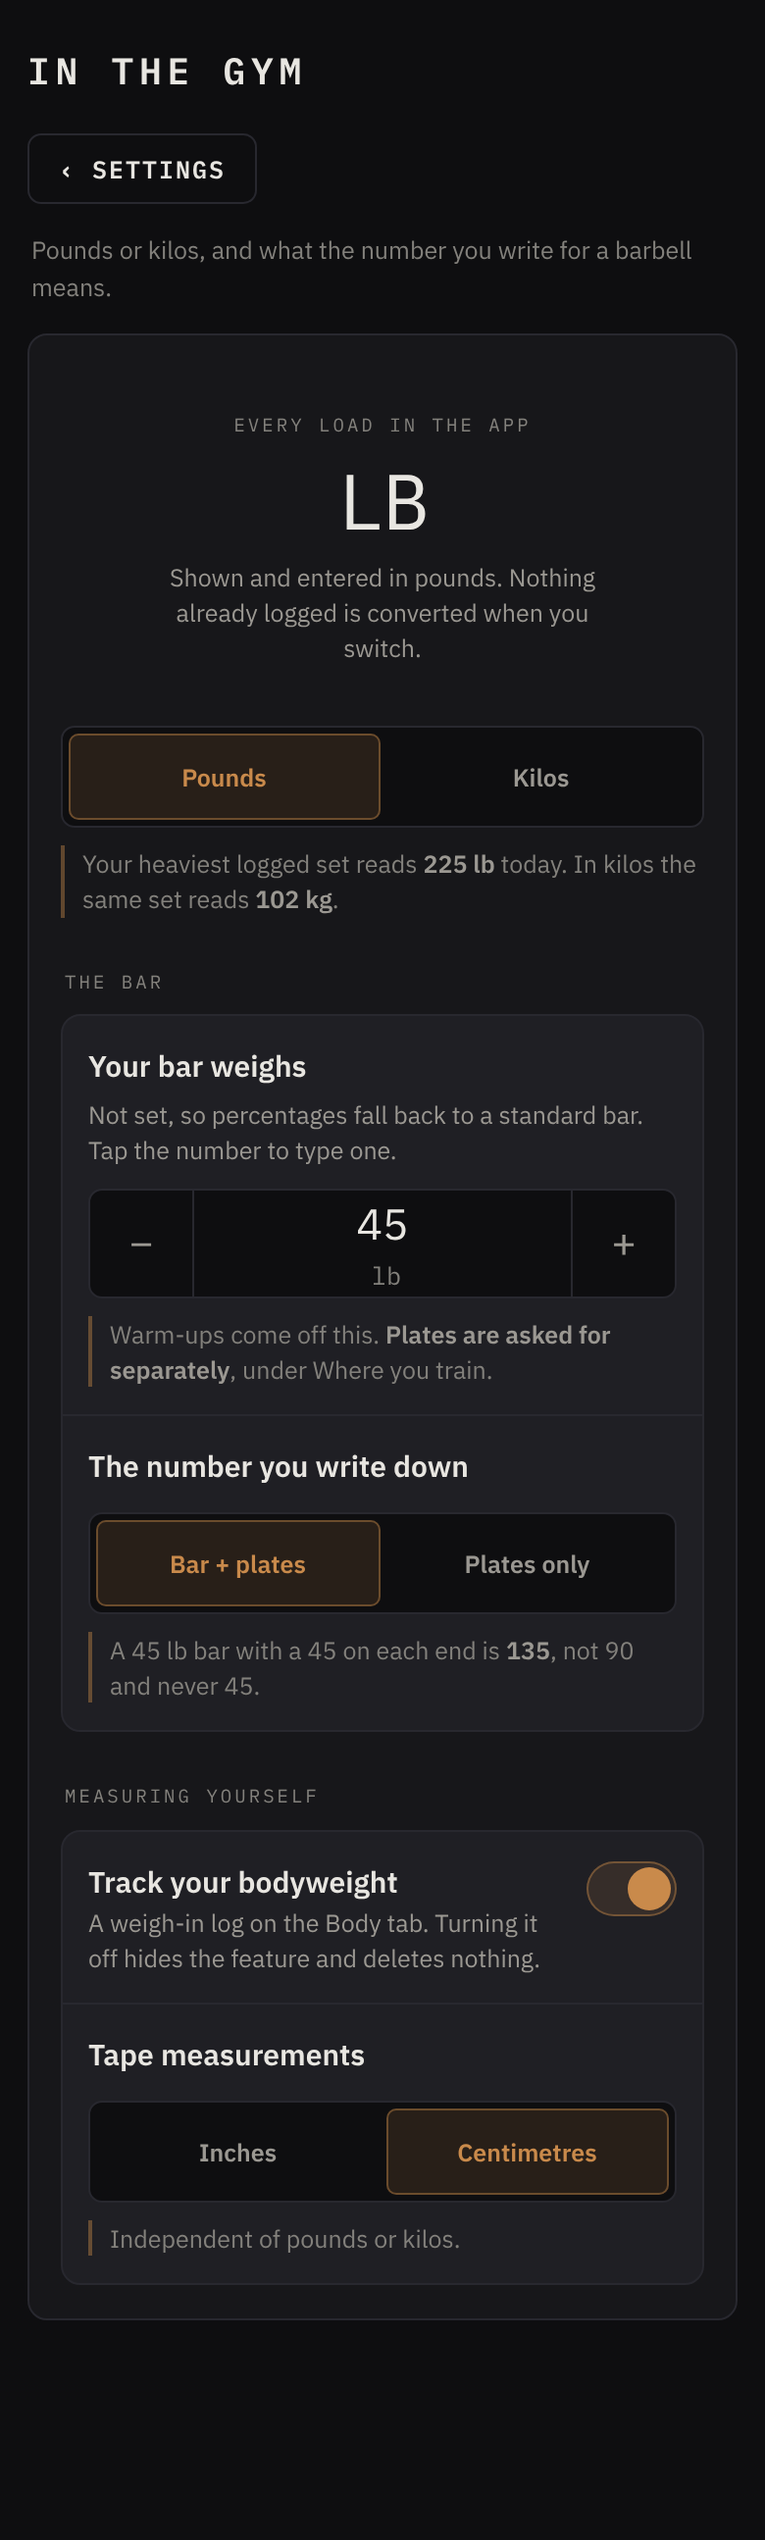
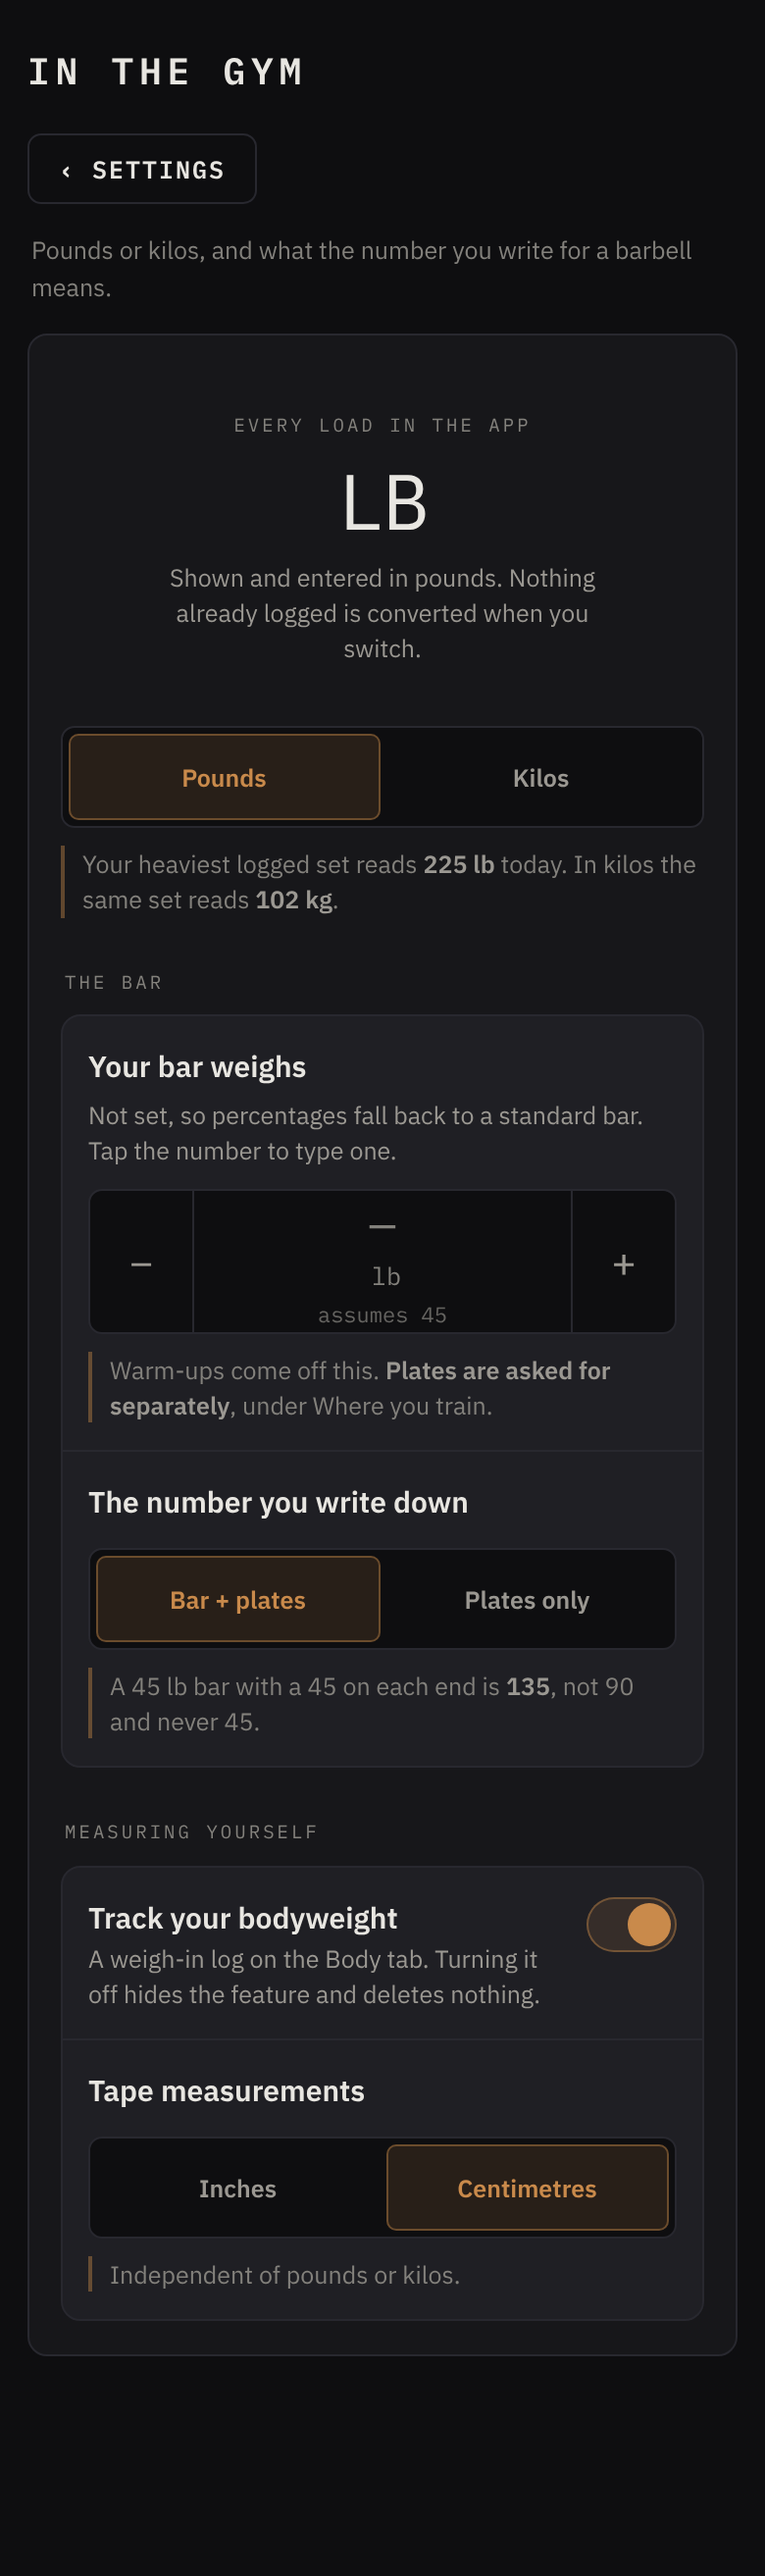
Batch 1 fixes and batch 2: targets, where you train, your plan
Design assets only; no app file touched.

The three agreed fixes to the picked variants. sess B's hero now has the
control it describes sitting under it, so all three picks read hero, control,
says line, groups, More. gym B's bar stepper no longer shows a crisp 45 for a
value that was never set: it reads an em dash with "assumes 45" under it,
dimmed, because a number that looks like an answer you gave is a lie about
your own data. screen A gained the says line it was missing.

Batch 2 is where the dial and the dual-thumb range finally do real work, on
figures that exist: the targets dial runs the real TG_MIN..TG_MAX of 50-150
with detents, and each muscle's range carries its real MEV, MAV and MRV, with
the six the fixture's lmFloor overrides marked as yours.

Three faults the renderer and the screenshots caught, all fixed:
- the plate chips were sized by weight, which is the point of the metaphor and
  also made a 2.5 a 29px tap target. The face varies now; the button behind it
  does not, and stays 52px.
- the dial's readout collided with its own knob, and the per-cent sign took a
  line of its own because the caption rule was a descendant selector and the
  unit lives inside the number. Direct child now, and the dial is larger.
- the plate row wrapped a lone 2.5 onto a second line.

Claude-Session: https://claude.ai/code/session_01GAZKtWTWgeWboZwoRMpH1R

diff --git a/design/variants/variants.js b/design/variants/variants.js
@@ -25,9 +25,11 @@ const tog = (label,sub,on)=> `<button type="button" class="sd-tog" aria-pressed=
 const chips = (opts,cur,plate)=> `<div class="sd-chips">${opts.map(o=>
   `<button type="button" class="sd-chip${plate?" sd-plate":""}${o.word?" is-word":""}"
      aria-pressed="${o.v===cur}">${E(o.t)}</button>`).join("")}</div>`;
-const step = (v,unit)=> `<div class="sd-step">
+const step = (v,unit,unset)=> `<div class="sd-step">
   <button type="button" aria-label="Less">−</button>
-  <div class="sd-step-v" role="spinbutton" tabindex="0" aria-valuenow="${E(v)}">${E(v)}${unit?`<i>${E(unit)}</i>`:""}</div>
+  <div class="sd-step-v${unset?" is-unset":""}" role="spinbutton" tabindex="0"
+    ${unset?'aria-valuetext="not set"':`aria-valuenow="${E(v)}"`}>${
+    unset?`—<i>${E(unit)}</i><u>${E(v)}</u>`:`${E(v)}${unit?`<i>${E(unit)}</i>`:""}`}</div>
   <button type="button" aria-label="More">+</button></div>`;
 const more = (label,inner)=> `<details class="sd-more"><summary>${E(label)}</summary>
   <div class="sd-more-b">${inner}</div></details>`;
@@ -254,7 +256,7 @@ const gym_B = ()=>
 + sec("The bar")
 + group(
     item("Your bar weighs","Not set, so percentages fall back to a standard bar. Tap the number to type one.",
-      step(45,"lb"),"Warm-ups come off this. <b>Plates are asked for separately</b>, under Where you train.")
+      step(45,"lb",true),"Warm-ups come off this. <b>Plates are asked for separately</b>, under Where you train.")
   + item("The number you write down","",
       seg([{v:"total",t:"Bar + plates"},{v:"plates",t:"Plates only"}],"total"),
       "A 45 lb bar with a 45 on each end is <b>135</b>, not 90 and never 45."))
@@ -280,4 +282,197 @@ window.SD = {
   screen_A, screen_B, screen_C,
   gym_A, gym_B, gym_C
 };
+/* =====================  BATCH 2  ===================== */
+/* Real figures: GROUPS defaults, with the six the fixture's lmFloor overrides marked. */
+const M = {
+  quads:["Quads",5.5,16,20,true],  hams:["Hamstrings",4.5,14,20,true],
+  glutes:["Glutes",4,12,16,false], calves:["Calves",2,14,20,true],
+  adductors:["Adductors",0,6,12,false],
+  upper_back:["Mid Back",5.3,20,25,true], lats:["Lats",10,18,22,false],
+  traps:["Traps",4,16,24,false],   lower_back:["Lower Back",4,8,12,false],
+  delts_side:["Side Delts",5,20,26,true], delts_rear:["Rear Delts",8.5,18,24,true],
+  delts_front:["Front Delts",0,12,16,false],
+  chest:["Chest",10,20,22,false],
+  biceps:["Biceps",8,18,24,false], triceps:["Triceps",6,14,18,false],
+  forearms:["Forearms",2,8,12,false],
+  abs:["Abs",6,18,24,false], obliques:["Obliques",4,10,16,false]
+};
+const AREAS = {Chest:["chest"], Back:["upper_back","lats","traps","lower_back"],
+  Shoulders:["delts_side","delts_rear","delts_front"],
+  Arms:["biceps","triceps","forearms"], Core:["abs","obliques"],
+  Legs:["quads","hams","glutes","calves","adductors"]};
+const mName=k=>M[k][0], mMine=k=>M[k][4];
+const band = k=>{const [n,a,b,c]=M[k];return `${a}/${b}/${c}`;};
+
+/* A muscle as a three-stop range: MEV, MAV marked on the rail, MRV. */
+function mRange(k){
+  const [n,mev,mav,mrv,mine]=M[k], MAXS=28;
+  const p=v=>(v/MAXS)*100;
+  return `<div class="sd-item">
+    <div style="display:flex;align-items:baseline;gap:8px">
+      <div class="sd-label" style="flex:1 1 auto;margin:0">${E(n)}${mine?` <i class="sd-mine">yours</i>`:""}</div>
+      <div class="sd-r-v">${E(mev)}–${E(mrv)}</div></div>
+    <div class="sd-range" style="margin-top:9px"><div class="sd-range-t">
+      <div class="sd-range-rail"></div>
+      <div class="sd-range-on" style="left:${p(mev)}%;right:${(100-p(mrv)).toFixed(1)}%"></div>
+      <div class="sd-range-mid" style="left:${p(mav)}%"></div>
+      <div class="sd-range-th" role="slider" tabindex="0" aria-label="${E(n)} minimum"
+        aria-valuenow="${mev}" style="left:${p(mev)}%"></div>
+      <div class="sd-range-th" role="slider" tabindex="0" aria-label="${E(n)} maximum"
+        aria-valuenow="${mrv}" style="left:${p(mrv)}%"></div></div>
+      <div class="sd-range-sc"><span>0</span><span>enough: ${E(mav)}</span><span>${MAXS}</span></div></div>
+  </div>`;
+}
+/* Plates you own, drawn as plates: the heavy ones read heavier. */
+const PLATES=[45,35,25,10,5,2.5];
+function plateRow(owned){
+  const big=Math.max(...PLATES);
+  /* The face varies with the plate; the BUTTON does not. A 2.5 drawn small is the point
+     of the metaphor, but a 29px tap target is a miss, so the face sits inside a full-size
+     hit area rather than being one. */
+  return `<div class="sd-chips sd-plates">${PLATES.map(v=>{
+    const h=26+Math.round((v/big)*28);
+    return `<button type="button" class="sd-plate-b" aria-pressed="${owned.indexOf(v)>-1}"
+      aria-label="${v} pound plates"><span class="sd-plate-f" style="height:${h}px">${v}</span></button>`;
+  }).join("")}</div>`;
+}
+
+/* ---------- Volume targets ---------- */
+const tgMuscleList = ()=> Object.keys(AREAS).map(a=>
+  `<div class="sd-sec" style="margin:18px 2px 7px">${E(a)}</div>` + group(
+    AREAS[a].map(k=> `<button type="button" class="sd-r-h">
+      <span class="sd-r-n">${E(mName(k))}${mMine(k)?` <i class="sd-mine">yours</i>`:""}</span>
+      <span class="sd-r-v">${E(band(k))}</span><span class="sd-r-c">›</span></button>`).join(""))).join("");
+
+const targets_A = ()=>
+  `<div class="sd-hero" style="padding-bottom:12px"><div class="sd-hero-k">ALL TARGETS, AGAINST THE PUBLISHED FIGURES</div>
+    ${dial(100,"%","of published",[50,75,100,125,150],50,150)}</div>`
++ says("At <b>100%</b> you are on the published figures. Six muscles you have set yourself are left alone by this — the scale moves the other twelve.")
++ sec("Where the figures come from")
++ group(item("","",seg([{v:"pub",t:"As published"},{v:"learn",t:"Learn from my training"}],"pub"),
+    "Published numbers until your log says otherwise. <b>Quads: 16 sets a week</b>, about 5 per leg day."))
++ more("Each muscle on its own — 6 of 18 set by you", tgMuscleList());
+
+const targets_B = ()=>
+  heroW("VOLUME TARGETS","18 muscles, 6 set by you",
+    "Each one is a range: the least that does anything, and the most you can recover from.")
++ sec("Legs")
++ group(AREAS.Legs.slice(0,4).map(mRange).join(""))
++ sec("Shoulders")
++ group(AREAS.Shoulders.map(mRange).join(""))
++ says("Drag either end, or tap a number to type it. <b>Enough</b> is the middle mark — where most people grow without digging a hole.")
++ more("Chest, Back, Arms and Core", sec("Back") + group(AREAS.Back.map(mRange).join(""))
+  + sec("Arms") + group(AREAS.Arms.map(mRange).join("")));
+
+const targets_C = ()=>
+  heroW("VOLUME TARGETS","100% of published","Six muscles you have set yourself. Tap an area to open it.")
++ list(
+   row("Legs","5 muscles",true,
+     group(AREAS.Legs.map(k=>`<div class="sd-item" style="display:flex;align-items:center;gap:10px">
+       <span class="sd-label" style="flex:1 1 auto;margin:0">${E(mName(k))}${mMine(k)?` <i class="sd-mine">yours</i>`:""}</span>
+       <span class="sd-r-v">${E(band(k))}</span></div>`).join(""))
+     + says("Shown as <b>least / enough / most</b> sets a week."))
+ + row("Back","4 muscles") + row("Shoulders","3 muscles") + row("Arms","3 muscles")
+ + row("Chest","1 muscle") + row("Core","2 muscles"))
++ more("All of them at once", `<div class="sd-item">${dial(100,"%","of published",[50,75,100,125,150],50,150)}</div>`);
+
+/* ---------- Where you train ---------- */
+const gymRow=(n,sess,note)=>`<button type="button" class="sd-r-h">
+  <span class="sd-r-n">${E(n)}<span class="sd-sub" style="display:block">${E(note)}</span></span>
+  <span class="sd-r-v">${E(sess)}</span><span class="sd-r-c">›</span></button>`;
+
+const where_A = ()=>
+  heroW("WHERE YOU TRAIN","Palma Vista Gym","48 of your 74 sessions. Its kit is what the app assumes unless another gym says otherwise.")
++ sec("Plates you have, each side")
++ plateRow(PLATES)
++ says("The smallest pair decides every load the app suggests. Yours is <b>not set</b>, so it still suggests numbers your rack may not make.")
++ sec("The rest of the kit")
++ group(
+    item("Dumbbells go up by","",step(5,"lb"),"So 30, 35, 40 — and nothing in between. Heaviest pair: <b>50 lb</b>.")
+  + item("The Smith carriage weighs","",step(25,"lb")))
++ more("Your other two gyms, and finding them", list(
+    gymRow("Lotus Gym","1","2.5 lb plates · 35 lb Smith")
+  + gymRow("Uptown Gym","1","35 lb Smith")) 
+  + group(tog("Recognise the gym you are in","Uses your location to pick the right kit. Nothing leaves the device.",true)));
+
+const where_B = ()=>
+  hero("GYMS ELEMENT 26 KNOWS","3",null,"One usual, two you have visited once each.")
++ sec("Your usual — Palma Vista")
++ group(
+    item("Smallest plate each side","Not set, so it suggests exact numbers your rack may not make.",
+      plateRow(PLATES),"Tap the pair you own. The bar then moves <b>twice</b> that at a time.")
+  + item("Dumbbells go up by","",step(5,"lb"),"Heaviest pair on the rack: <b>50 lb</b>.")
+  + item("The Smith carriage","",step(25,"lb")))
++ sec("Exceptions")
++ group(
+    item("Lotus Gym","Visited once.",`<div class="sd-chips">
+      <button type="button" class="sd-chip" aria-pressed="true">2.5 lb plates</button>
+      <button type="button" class="sd-chip" aria-pressed="true">35 lb Smith</button></div>`)
+  + item("Uptown Gym","Visited once.",`<div class="sd-chips">
+      <button type="button" class="sd-chip" aria-pressed="true">35 lb Smith</button></div>`))
++ more("Finding the gym you are in", group(
+    tog("Recognise the gym you are in","Picks the right kit when you arrive. Your location never leaves the device.",true)));
+
+const where_C = ()=>
+  heroW("WHERE YOU TRAIN","Three gyms","Tap one to see what it has.")
++ list(
+   row("Palma Vista Gym","48 sessions",true,
+     `<p class="sd-sub" style="margin-bottom:10px">Your usual. Its kit is what the app assumes everywhere else.</p>`
+     + plateRow(PLATES)
+     + says("Smallest plate <b>not set</b> · dumbbells every <b>5 lb</b> to <b>50</b> · Smith <b>25 lb</b>."))
+ + row("Lotus Gym","1 session") + row("Uptown Gym","1 session"))
++ more("Finding the gym you are in", group(
+    tog("Recognise the gym you are in","Uses your location, which never leaves the device.",true)));
+
+/* ---------- Your plan ---------- */
+const GOAL4=[{v:"muscle",t:"Build muscle"},{v:"strength",t:"Get stronger"},
+             {v:"lean",t:"Lose fat, keep muscle"},{v:"health",t:"General health"}];
+const PHASE3=[{v:"gain",t:"Gaining"},{v:"maintain",t:"Maintaining"},{v:"lose",t:"Losing"}];
+const blockBar = ()=>`<div style="margin:14px 2px 0">
+  <div style="display:flex;gap:3px;height:28px;align-items:flex-end">
+    ${Array.from({length:10},(_,i)=>`<div style="flex:1;height:${i<6?"100%":"55%"};
+      border-radius:3px 3px 0 0;background:${i<6?"var(--acc)":"var(--line)"};
+      opacity:${i<6?(0.45+i*0.09).toFixed(2):1}"></div>`).join("")}
+  </div>
+  <div class="sd-range-sc" style="margin-top:6px"><span>block start</span><span>deload due</span></div></div>`;
+
+const plan_A = ()=>
+  heroW("WHAT YOU'RE TRAINING FOR","Build muscle","Moderate reps, plenty of volume. This is what sets every rep range in your plan.")
++ seg(GOAL4,"muscle",true)
++ says("Heavy lifts <b>6–10</b> · second movement <b>8–12</b> · isolation <b>12–15</b> · abs <b>10–15</b>.")
++ sec("What you're eating for")
++ group(item("","",seg(PHASE3,"gain"),
+    "Eating above maintenance to build. Some fat comes with it; the rate decides how much."))
++ more("The block and deloads", group(
+    item("Six weeks into this block","Your last deload ended when the block began.",blockBar(),
+      "A deload is offered every 6 weeks, or earlier if your RPE and check-ins say so.")
+  + item("","",`<div class="sd-chips"><button type="button" class="sd-chip is-word">Start a deload week</button></div>`)));
+
+const plan_B = ()=>
+  hero("INTO THIS BLOCK","6",`<span style="font-size:19px"> weeks</span>`,
+    "Your last deload ended when this block began. The next is offered at week six.")
++ blockBar()
++ says("Offered every <b>6 weeks</b>, or earlier if your RPE and check-ins say so. Nothing starts without you.")
++ sec("Training for")
++ group(item("","",seg(GOAL4,"muscle",true),
+    "<b>Build muscle</b> — heavy <b>6–10</b>, second <b>8–12</b>, isolation <b>12–15</b>."))
++ sec("Eating for")
++ group(item("","",seg(PHASE3,"gain"),
+    "Above maintenance. Protein and hard training are what decide how much of the gain is muscle."))
++ more("Deload now", group(item("","Ends when you say, or after a week.",
+    `<div class="sd-chips"><button type="button" class="sd-chip is-word">Start a deload week</button></div>`)));
+
+const plan_C = ()=>
+  heroW("YOUR PLAN","Build muscle, gaining","Six weeks into the block.")
++ list(
+   row("Training for","Build muscle",true,
+     seg(GOAL4,"muscle",true)
+     + says("Sets every rep range: heavy <b>6–10</b>, second <b>8–12</b>, isolation <b>12–15</b>, abs <b>10–15</b>."))
+ + row("Eating for","Gaining")
+ + row("Block","6 weeks in")
+ + row("Deload","Due at week 6"));
+
+Object.assign(window.SD, {targets_A,targets_B,targets_C,
+  where_A,where_B,where_C, plan_A,plan_B,plan_C});
+
 })();

diff --git a/design/variants/controls.css b/design/variants/controls.css
@@ -69,7 +69,7 @@
 .sd-tog[aria-pressed="true"] .sd-tog-sw::after{transform:translateX(18px);background:var(--acc)}
 
 /* ---------- dial: one value, with detents at the real stops ---------- */
-.sd-dial{position:relative;width:208px;height:208px;margin:4px auto 0;touch-action:none;
+.sd-dial{position:relative;width:236px;height:236px;margin:4px auto 0;touch-action:none;
   -webkit-user-select:none;user-select:none;cursor:grab}
 .sd-dial svg{width:100%;height:100%;display:block;overflow:visible}
 .sd-dial-track{fill:none;stroke:var(--line);stroke-width:7;stroke-linecap:round}
@@ -81,8 +81,10 @@
 .sd-dial-read{position:absolute;inset:0;display:grid;place-items:center;
   pointer-events:none;text-align:center}
 .sd-dial-read b{display:block;font-family:var(--mono);font-variant-numeric:tabular-nums;
-  font-size:38px;line-height:1;letter-spacing:-.03em;color:var(--text);font-weight:500}
-.sd-dial-read span{display:block;font-family:var(--disp);font-size:var(--fs-1);
+  font-size:34px;line-height:1;letter-spacing:-.03em;color:var(--text);font-weight:500}
+/* DIRECT CHILD. The unit lives inside <b>, and this rule was catching it too, so the
+   per-cent sign took a line of its own under the number. */
+.sd-dial-read > span{display:block;font-family:var(--disp);font-size:var(--fs-1);
   letter-spacing:.16em;text-transform:uppercase;color:var(--faint);margin-top:7px}
 .sd-dial:focus-visible{outline:2px solid var(--acc);outline-offset:6px;border-radius:50%}
 
@@ -166,3 +168,36 @@
   .sd-tog-sw::after,.sd-dial-fill,.sd-r-c,.sd-more > summary::after{transition:none}
   .sd-seg button:active,.sd-chip:active{transform:none}
 }
+
+/* A value that has never been set must not look like one you chose. The em dash is the
+   value; the number behind it is what the app falls back to, shown as a placeholder. */
+.sd-step-v.is-unset{color:var(--faint)}
+.sd-step-v.is-unset i{color:var(--faint)}
+.sd-step-v.is-unset u{text-decoration:none;display:block;font-size:var(--fs-2);
+  color:var(--faint);opacity:.75;margin-top:1px}
+.sd-step-v.is-unset u::before{content:"assumes "}
+
+/* A landmark you set yourself, marked wherever it appears. */
+.sd-mine{font-style:normal;font-family:var(--sans);font-size:var(--fs-1);
+  font-weight:600;letter-spacing:.08em;text-transform:uppercase;color:var(--acc);
+  background:var(--acc-soft);border-radius:3px;padding:2px 5px;margin-left:5px;
+  vertical-align:middle}
+/* "Enough" on a range: the mark most people should land on. */
+.sd-range-mid{position:absolute;top:9px;width:2px;height:12px;margin-left:-1px;
+  background:var(--dim);border-radius:1px}
+.sd-range-sc{gap:8px}
+.sd-plates{align-items:flex-end;gap:3px;flex-wrap:nowrap}
+.sd-plates .sd-plate{display:grid;place-items:center}
+
+/* A plate chip: the face carries the weight, the button carries the finger. */
+.sd-plate-b{display:grid;place-items:center;min-height:52px;min-width:44px;padding:0 1px;
+  border:0;background:none;cursor:pointer}
+.sd-plate-f{display:grid;place-items:center;min-width:40px;padding:0 7px;
+  border:1px solid var(--line);border-radius:var(--r-pill);background:var(--bg);
+  color:var(--dim);font-family:var(--mono);font-variant-numeric:tabular-nums;
+  font-size:var(--fs-4);transition:background var(--t-fast) var(--ease),
+    color var(--t-fast) var(--ease),border-color var(--t-fast) var(--ease)}
+.sd-plate-b[aria-pressed="true"] .sd-plate-f{background:var(--acc-soft);color:var(--acc);
+  border-color:var(--acc-line)}
+.sd-plate-b:active .sd-plate-f{transform:scale(.96)}
+@media (prefers-reduced-motion: reduce){ .sd-plate-b:active .sd-plate-f{transform:none} }
